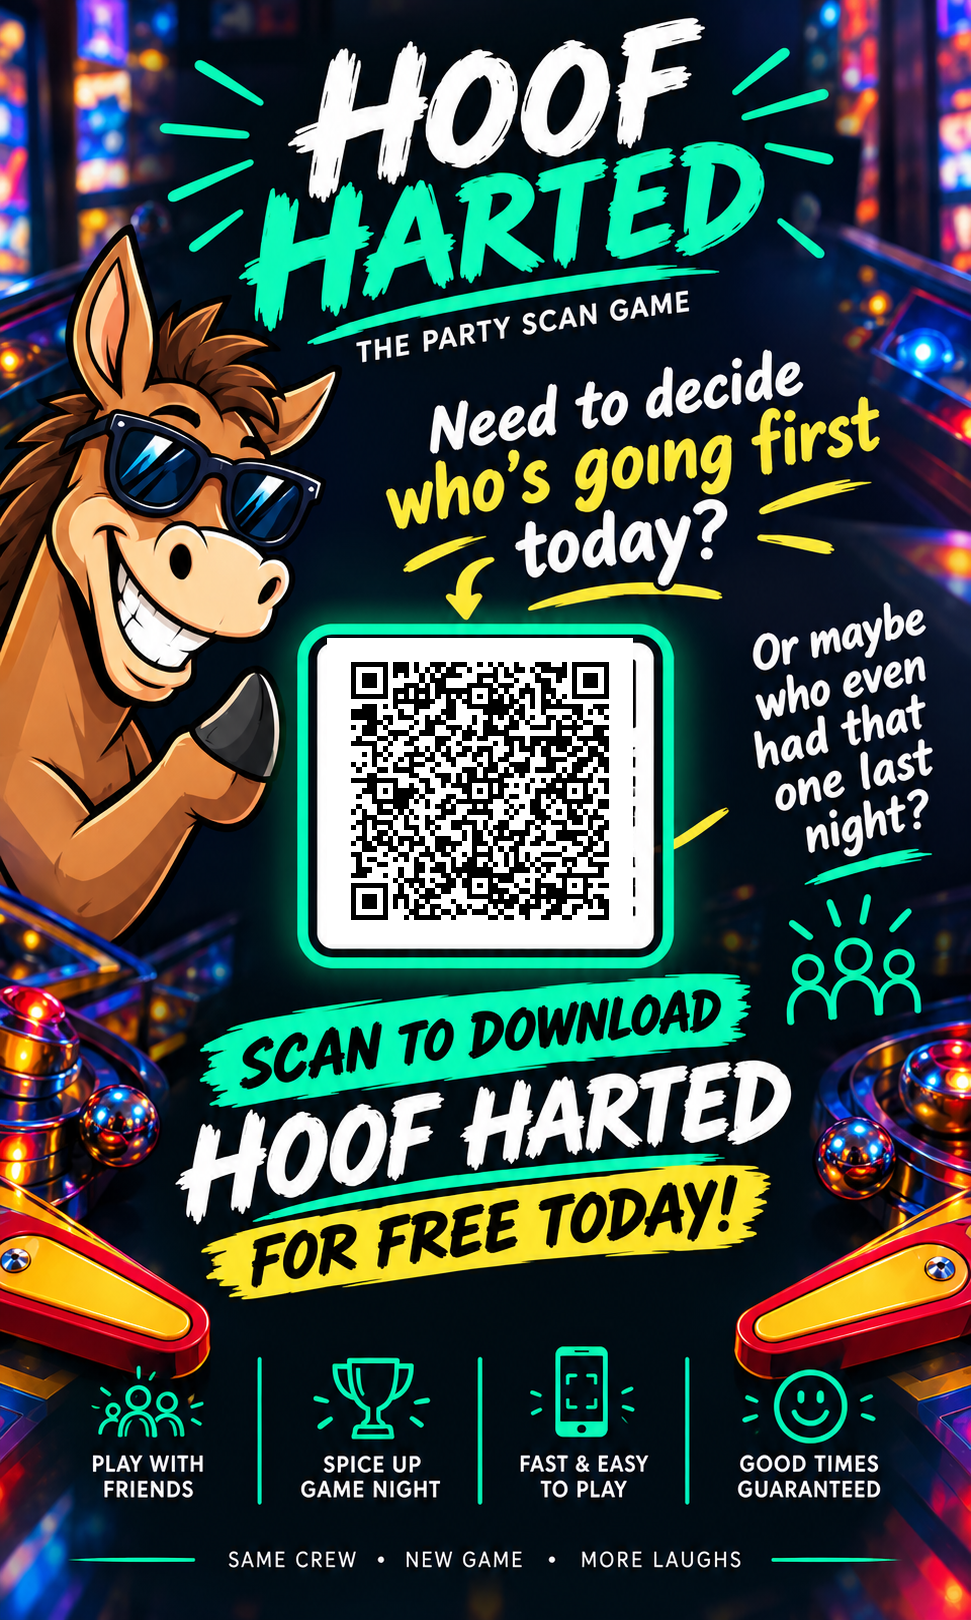
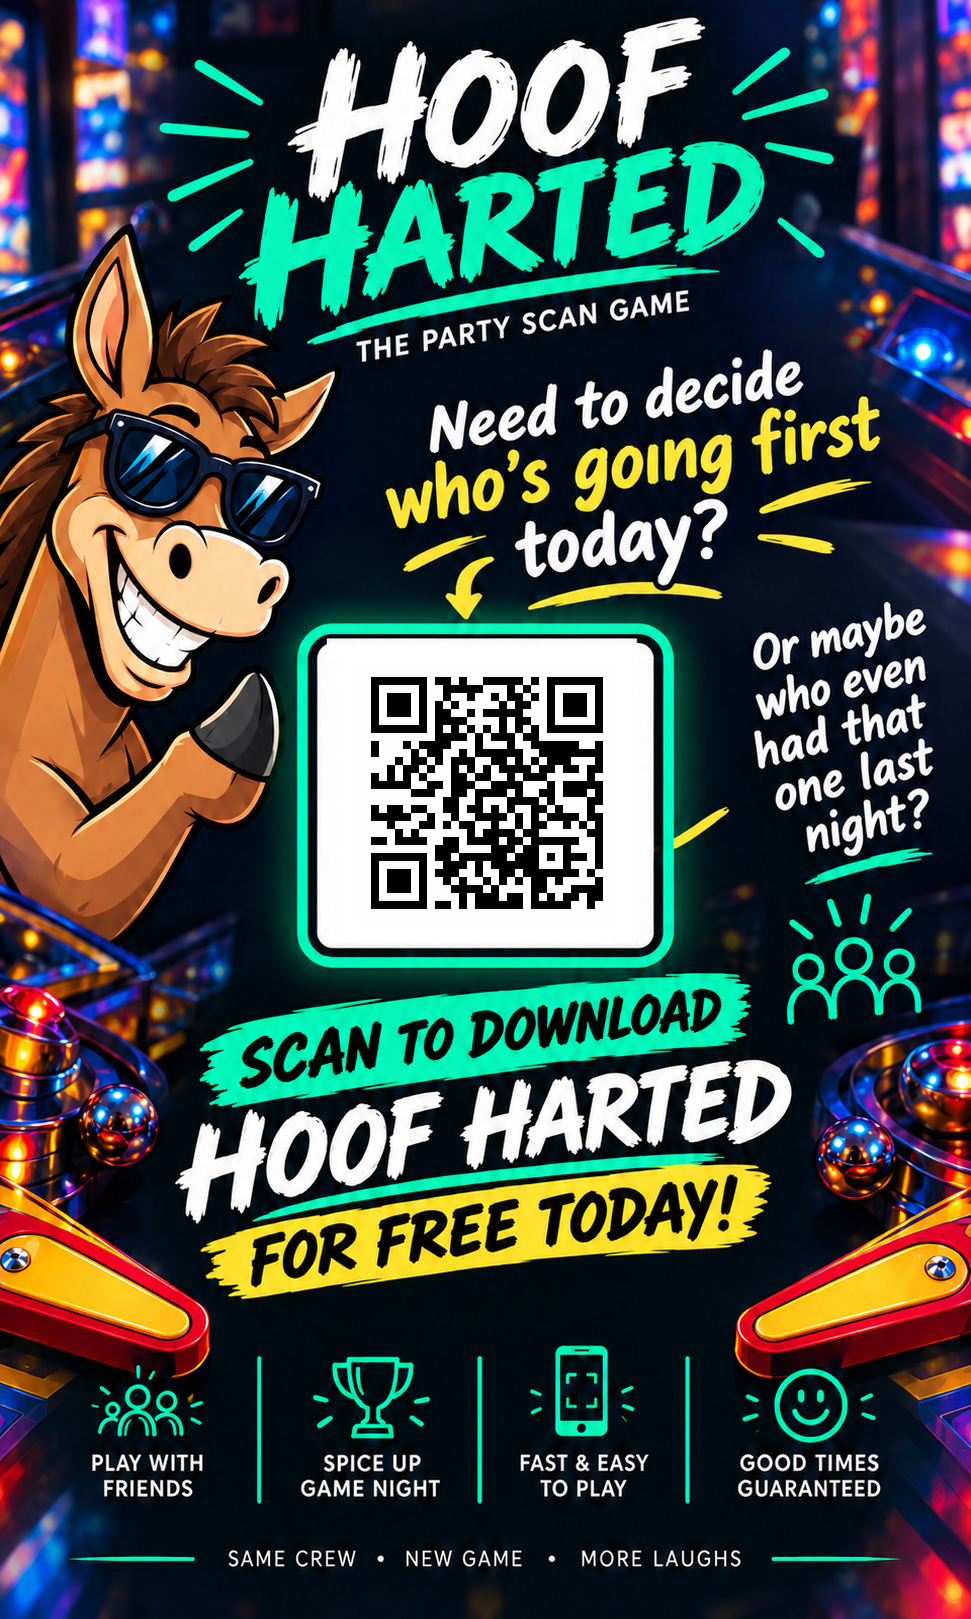
v2.34.1: Hoof Harted download page on takgio.com; the QR and flyer now point to it
New download page at takgio.com/hoof (hoof-harted-download.html): iPhone and iPad go straight to
the App Store, Android to Google Play, a computer sees both buttons. Unlisted (noindex, not in the
sitemap). ?c=<name> tags the visit (Apple ct=, Google Play utm_campaign); /hoof?c=Pinball keeps the
existing "Pinball" App Store campaign; ?stay=1 shows the page without redirecting.

The marketing page's QR and flyer are redrawn to encode https://www.takgio.com/hoof?c=Pinball
instead of a third-party hosted link. Flyer artwork unchanged; the code inside is a simpler 29x29
pattern. QR screen caption is now "Scan to download Hoof Harted".

diff --git a/hoof-harted-marketing.html b/hoof-harted-marketing.html
@@ -127,11 +127,11 @@
         <p class="pp-sub">Present puts one banner on the whole screen. Use the arrow keys to switch, or let it rotate on its own.</p>
         <div class="mpg-grid">
           <article class="mpg-asset" data-slide data-id="flyer" data-kind="art" data-src="/images/marketing/hoof-harted/pinball-flyer.webp" data-title="Pinball tournament flyer" data-caption="">
-            <button class="mpg-thumb" type="button" data-present="flyer" aria-label="Present Pinball tournament flyer full screen"><img src="/images/marketing/hoof-harted/pinball-flyer.webp" alt="Hoof Harted flyer: a cartoon horse in sunglasses points at a QR code under the words Need to decide who&#x27;s going first today? Below it: Scan to download Hoof Harted for free today!" width="971" height="1620" loading="lazy"><span class="mpg-play">&#9654; Present</span></button>
+            <button class="mpg-thumb" type="button" data-present="flyer" aria-label="Present Pinball tournament flyer full screen"><img src="/images/marketing/hoof-harted/pinball-flyer.webp" alt="Hoof Harted flyer: a cartoon horse in sunglasses points at a QR code under the words Need to decide who&#x27;s going first today? Below it: Scan to download Hoof Harted for free today!" width="971" height="1619" loading="lazy"><span class="mpg-play">&#9654; Present</span></button>
             <div class="mpg-meta">
               <h3>Pinball tournament flyer</h3>
-              <p class="mpg-spec">Portrait banner &middot; PNG &middot; 971 &times; 1,620 px &middot; 1.8 MB</p>
-              <div class="mpg-scan"><b>Scans to</b> the Hoof Harted page on the App Store, tagged as campaign &ldquo;Pinball&rdquo; (the code inside this flyer).<code>https://apps.apple.com/app/apple-store/id6805927078?pt=129182533&amp;ct=Pinball&amp;mt=8</code></div>
+              <p class="mpg-spec">Portrait banner &middot; PNG &middot; 971 &times; 1,619 px &middot; 1.8 MB</p>
+              <div class="mpg-scan"><b>Scans to</b> the Hoof Harted download page on takgio.com. It opens the App Store on iPhone and iPad and Google Play on Android, and shows both buttons on a computer. The App Store link keeps the campaign tag &ldquo;Pinball&rdquo; (the code inside this flyer).<code>https://www.takgio.com/hoof?c=Pinball</code></div>
               <div class="mpg-row">
                 <button class="mpg-btn p" type="button" data-present="flyer">&#9654; Present</button>
                 <a class="mpg-btn g" href="/images/marketing/hoof-harted/pinball-flyer.png" download="hoof-harted-pinball-flyer.png">Download</a>
@@ -139,12 +139,12 @@
               <div class="mpg-link"><span data-addr="flyer">www.takgio.com/marketing/hoof-harted?show=flyer</span><button class="mpg-copy" type="button" data-copy-text="https://www.takgio.com/marketing/hoof-harted?show=flyer">Copy link</button></div>
             </div>
           </article>
-          <article class="mpg-asset" data-slide data-id="qr" data-kind="qr" data-src="/images/marketing/hoof-harted/pinball-qr.png" data-title="Pinball tournament QR code" data-caption="Scan to download Hoof Harted · Free on iPhone">
-            <button class="mpg-thumb" type="button" data-present="qr" aria-label="Present Pinball tournament QR code full screen"><img src="/images/marketing/hoof-harted/pinball-qr.png" alt="QR code that opens Hoof Harted on the App Store" width="912" height="912" loading="lazy"><span class="mpg-play">&#9654; Present</span></button>
+          <article class="mpg-asset" data-slide data-id="qr" data-kind="qr" data-src="/images/marketing/hoof-harted/pinball-qr.png" data-title="Pinball tournament QR code" data-caption="Scan to download Hoof Harted">
+            <button class="mpg-thumb" type="button" data-present="qr" aria-label="Present Pinball tournament QR code full screen"><img src="/images/marketing/hoof-harted/pinball-qr.png" alt="QR code that opens the Hoof Harted download page" width="1184" height="1184" loading="lazy"><span class="mpg-play">&#9654; Present</span></button>
             <div class="mpg-meta">
               <h3>Pinball tournament QR code</h3>
-              <p class="mpg-spec">Square &middot; PNG &middot; 912 &times; 912 px &middot; 7 KB</p>
-              <div class="mpg-scan"><b>Scans to</b> the Hoof Harted page on the App Store, tagged as campaign &ldquo;Pinball&rdquo;.<code>https://apps.apple.com/app/apple-store/id6805927078?pt=129182533&amp;ct=Pinball&amp;mt=8</code></div>
+              <p class="mpg-spec">Square &middot; PNG &middot; 1,184 &times; 1,184 px &middot; 6 KB</p>
+              <div class="mpg-scan"><b>Scans to</b> the Hoof Harted download page on takgio.com. It opens the App Store on iPhone and iPad and Google Play on Android, and shows both buttons on a computer. The App Store link keeps the campaign tag &ldquo;Pinball&rdquo;.<code>https://www.takgio.com/hoof?c=Pinball</code></div>
               <div class="mpg-row">
                 <button class="mpg-btn p" type="button" data-present="qr">&#9654; Present</button>
                 <a class="mpg-btn g" href="/images/marketing/hoof-harted/pinball-qr.png" download="hoof-harted-pinball-qr.png">Download</a>

diff --git a/hoof-harted-download.html b/hoof-harted-download.html
@@ -1,0 +1,79 @@
+<!DOCTYPE html>
+<html lang="en">
+<head>
+  <meta charset="UTF-8">
+  <meta name="viewport" content="width=device-width, initial-scale=1.0">
+  <title>Download Hoof Harted &mdash; Takgio</title>
+  <meta name="description" content="Download Hoof Harted, the party scan game, from the App Store or Google Play.">
+  <meta name="robots" content="noindex,nofollow">
+  <link rel="icon" href="/favicon.svg" type="image/svg+xml">
+  <link rel="icon" href="/images/brand/favicon-32.png" sizes="32x32" type="image/png">
+  <link rel="apple-touch-icon" href="/images/brand/apple-touch-icon.png">
+  <link rel="canonical" href="https://www.takgio.com/hoof">
+  <style>
+    :root { color-scheme: dark; --a: #39ff9e; }
+    * { box-sizing: border-box; }
+    body { margin: 0; min-height: 100svh; display: grid; place-items: center; padding: 1.5rem; color: #fff;
+      background: radial-gradient(120% 80% at 50% 0%, #10231a, #07090d 70%);
+      font-family: system-ui, -apple-system, "Segoe UI", Roboto, sans-serif; }
+    main { width: 100%; max-width: 26rem; text-align: center; }
+    .icon { width: 96px; height: 96px; border-radius: 22px; box-shadow: 0 12px 40px rgba(57, 255, 158, .25); }
+    h1 { font-size: clamp(2rem, 9vw, 2.8rem); line-height: 1.05; margin: 1.1rem 0 .4rem; letter-spacing: -.03em; }
+    .tag { color: var(--a); font-weight: 700; margin: 0 0 1.6rem; }
+    #status { color: #b6c2d4; min-height: 1.5em; margin: 0 0 1.2rem; }
+    .stores { display: grid; gap: .9rem; }
+    .stores a { display: flex; flex-direction: column; gap: .15rem; padding: 1.1rem 1.25rem; border-radius: .9rem; border: 1.5px solid rgba(255, 255, 255, .2);
+      background: rgba(255, 255, 255, .06); color: #fff; text-decoration: none; font-size: 1.2rem; font-weight: 700; }
+    .stores a span { font-size: .85rem; font-weight: 500; color: #b6c2d4; }
+    .stores a:hover, .stores a:focus-visible { border-color: var(--a); outline: none; }
+    .stores a.rec { border-color: var(--a); background: rgba(57, 255, 158, .12); }
+    .note { color: #8a97ab; font-size: .82rem; margin-top: 1.8rem; line-height: 1.5; }
+    .note a { color: #b6c2d4; }
+  </style>
+  <script defer src="/js/analytics.js"></script>
+</head>
+<body>
+  <main>
+    <img class="icon" src="/images/products/hoof-harted-icon.png" alt="" width="96" height="96">
+    <h1>Hoof Harted</h1>
+    <p class="tag">The party scan game that detects nothing.</p>
+    <p id="status" aria-live="polite">Choose your store.</p>
+    <div class="stores">
+      <a id="apple" href="https://apps.apple.com/app/apple-store/id6805927078?pt=129182533&amp;ct=site&amp;mt=8">App Store<span>iPhone</span></a>
+      <a id="android" href="https://play.google.com/store/apps/details?id=com.takgio.hoofharted&amp;pcampaignid=web_share">Google Play<span>Android</span></a>
+    </div>
+    <p class="note">For entertainment only &mdash; it detects nothing. <a href="/hoof-harted.html">About Hoof Harted</a></p>
+  </main>
+  <script>
+  /* Download page for QR codes and links: phones go straight to their store, a computer shows both buttons.
+     ?c=<campaign> tags the visit (Apple's ct= on the App Store link, utm_campaign in Google Play's referrer);
+     the QR on the Pinball flyer is /hoof?c=Pinball. ?stay=1 shows the page without redirecting.
+     The server sends the same page to every device, so the choice is made here, from the browser's own user agent. */
+  (function () {
+    var APPLE = 'https://apps.apple.com/app/apple-store/id6805927078?pt=129182533&ct=';   // + campaign + '&mt=8', the order the old QR used
+    var PLAY = 'https://play.google.com/store/apps/details?id=com.takgio.hoofharted&pcampaignid=web_share';
+    function pick(ua, touch) {
+      if (/iPad|iPhone|iPod/i.test(ua) || (/Macintosh/i.test(ua) && touch > 1)) return 'apple';   // iPadOS reports itself as a Mac
+      if (/Android/i.test(ua)) return 'android';
+      return null;
+    }
+    window.hoofPick = pick;
+    var q = new URLSearchParams(location.search);
+    var c = q.get('c');
+    if (!c || !/^[A-Za-z0-9_-]{1,40}$/.test(c)) c = 'site';
+    var links = {
+      apple: APPLE + encodeURIComponent(c) + '&mt=8',
+      android: PLAY + '&referrer=' + encodeURIComponent('utm_source=takgio&utm_campaign=' + c)
+    };
+    document.getElementById('apple').href = links.apple;
+    document.getElementById('android').href = links.android;
+    var store = pick(navigator.userAgent || '', navigator.maxTouchPoints || 0);
+    if (!store) return;
+    document.getElementById(store).className = 'rec';
+    if (q.get('stay')) return;
+    document.getElementById('status').textContent = store === 'apple' ? 'Opening the App Store…' : 'Opening Google Play…';
+    setTimeout(function () { location.replace(links[store]); }, 300);   // a moment for the visit to be counted
+  })();
+  </script>
+</body>
+</html>
